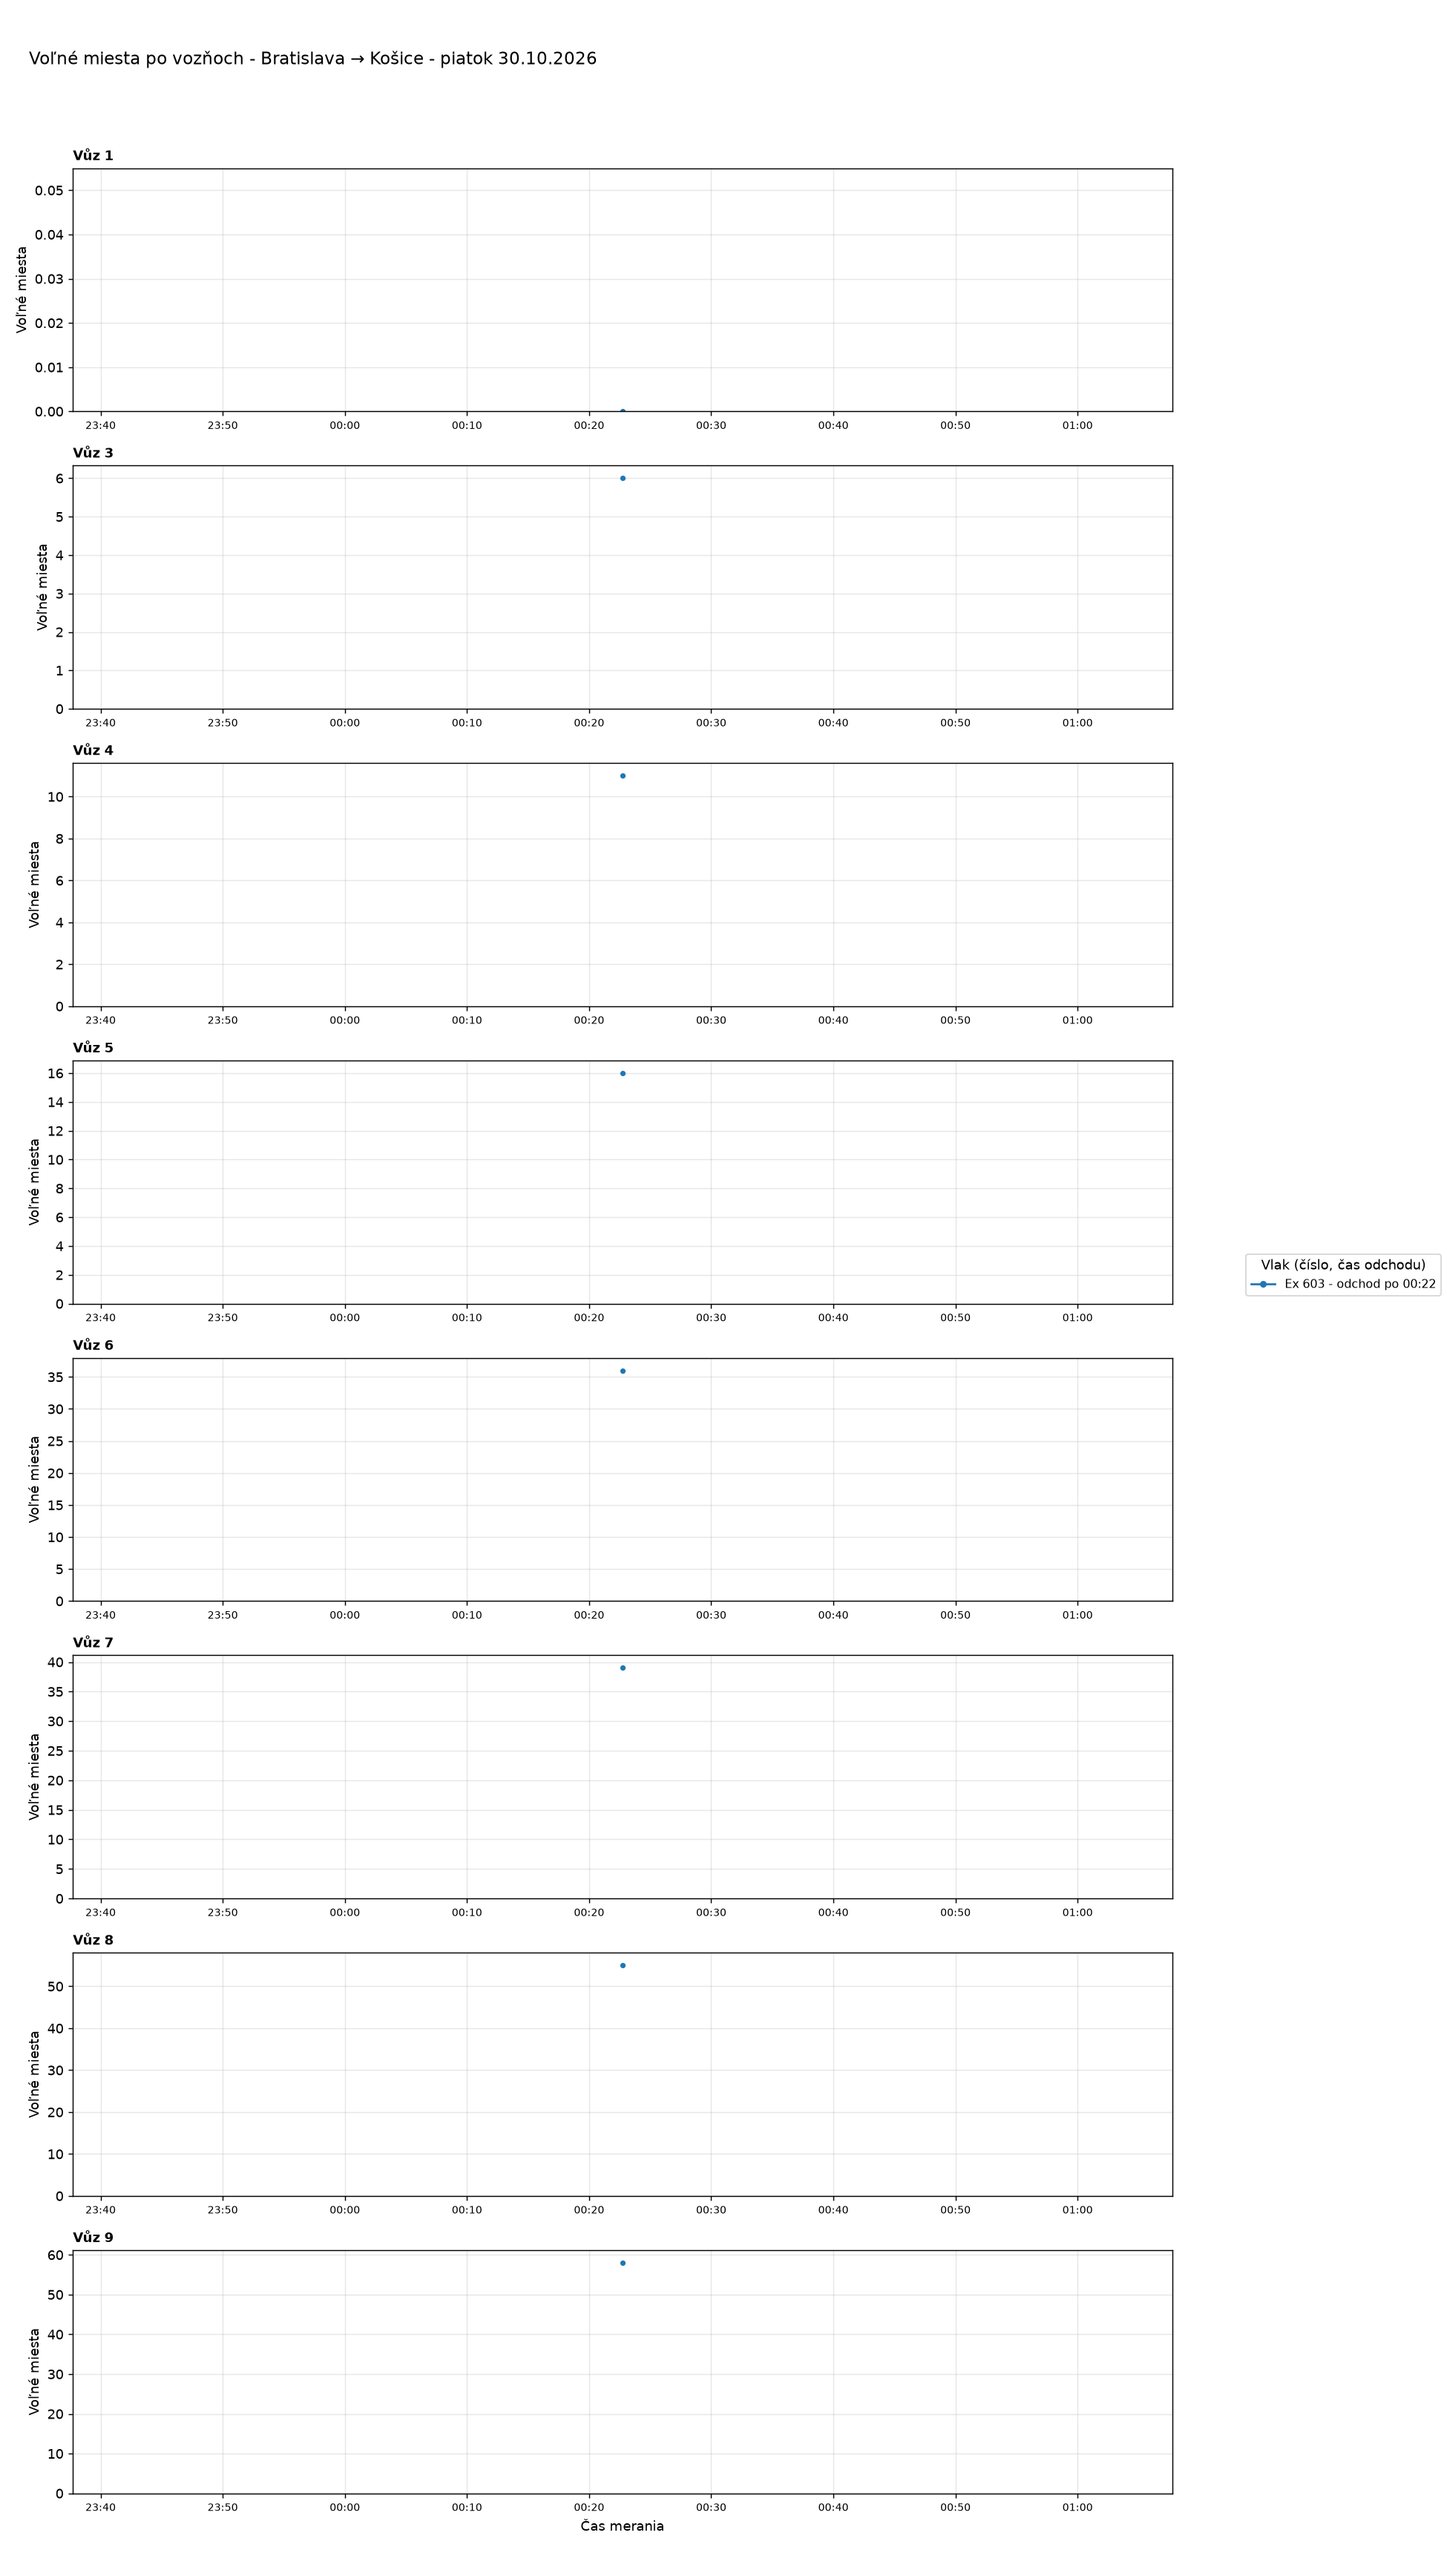
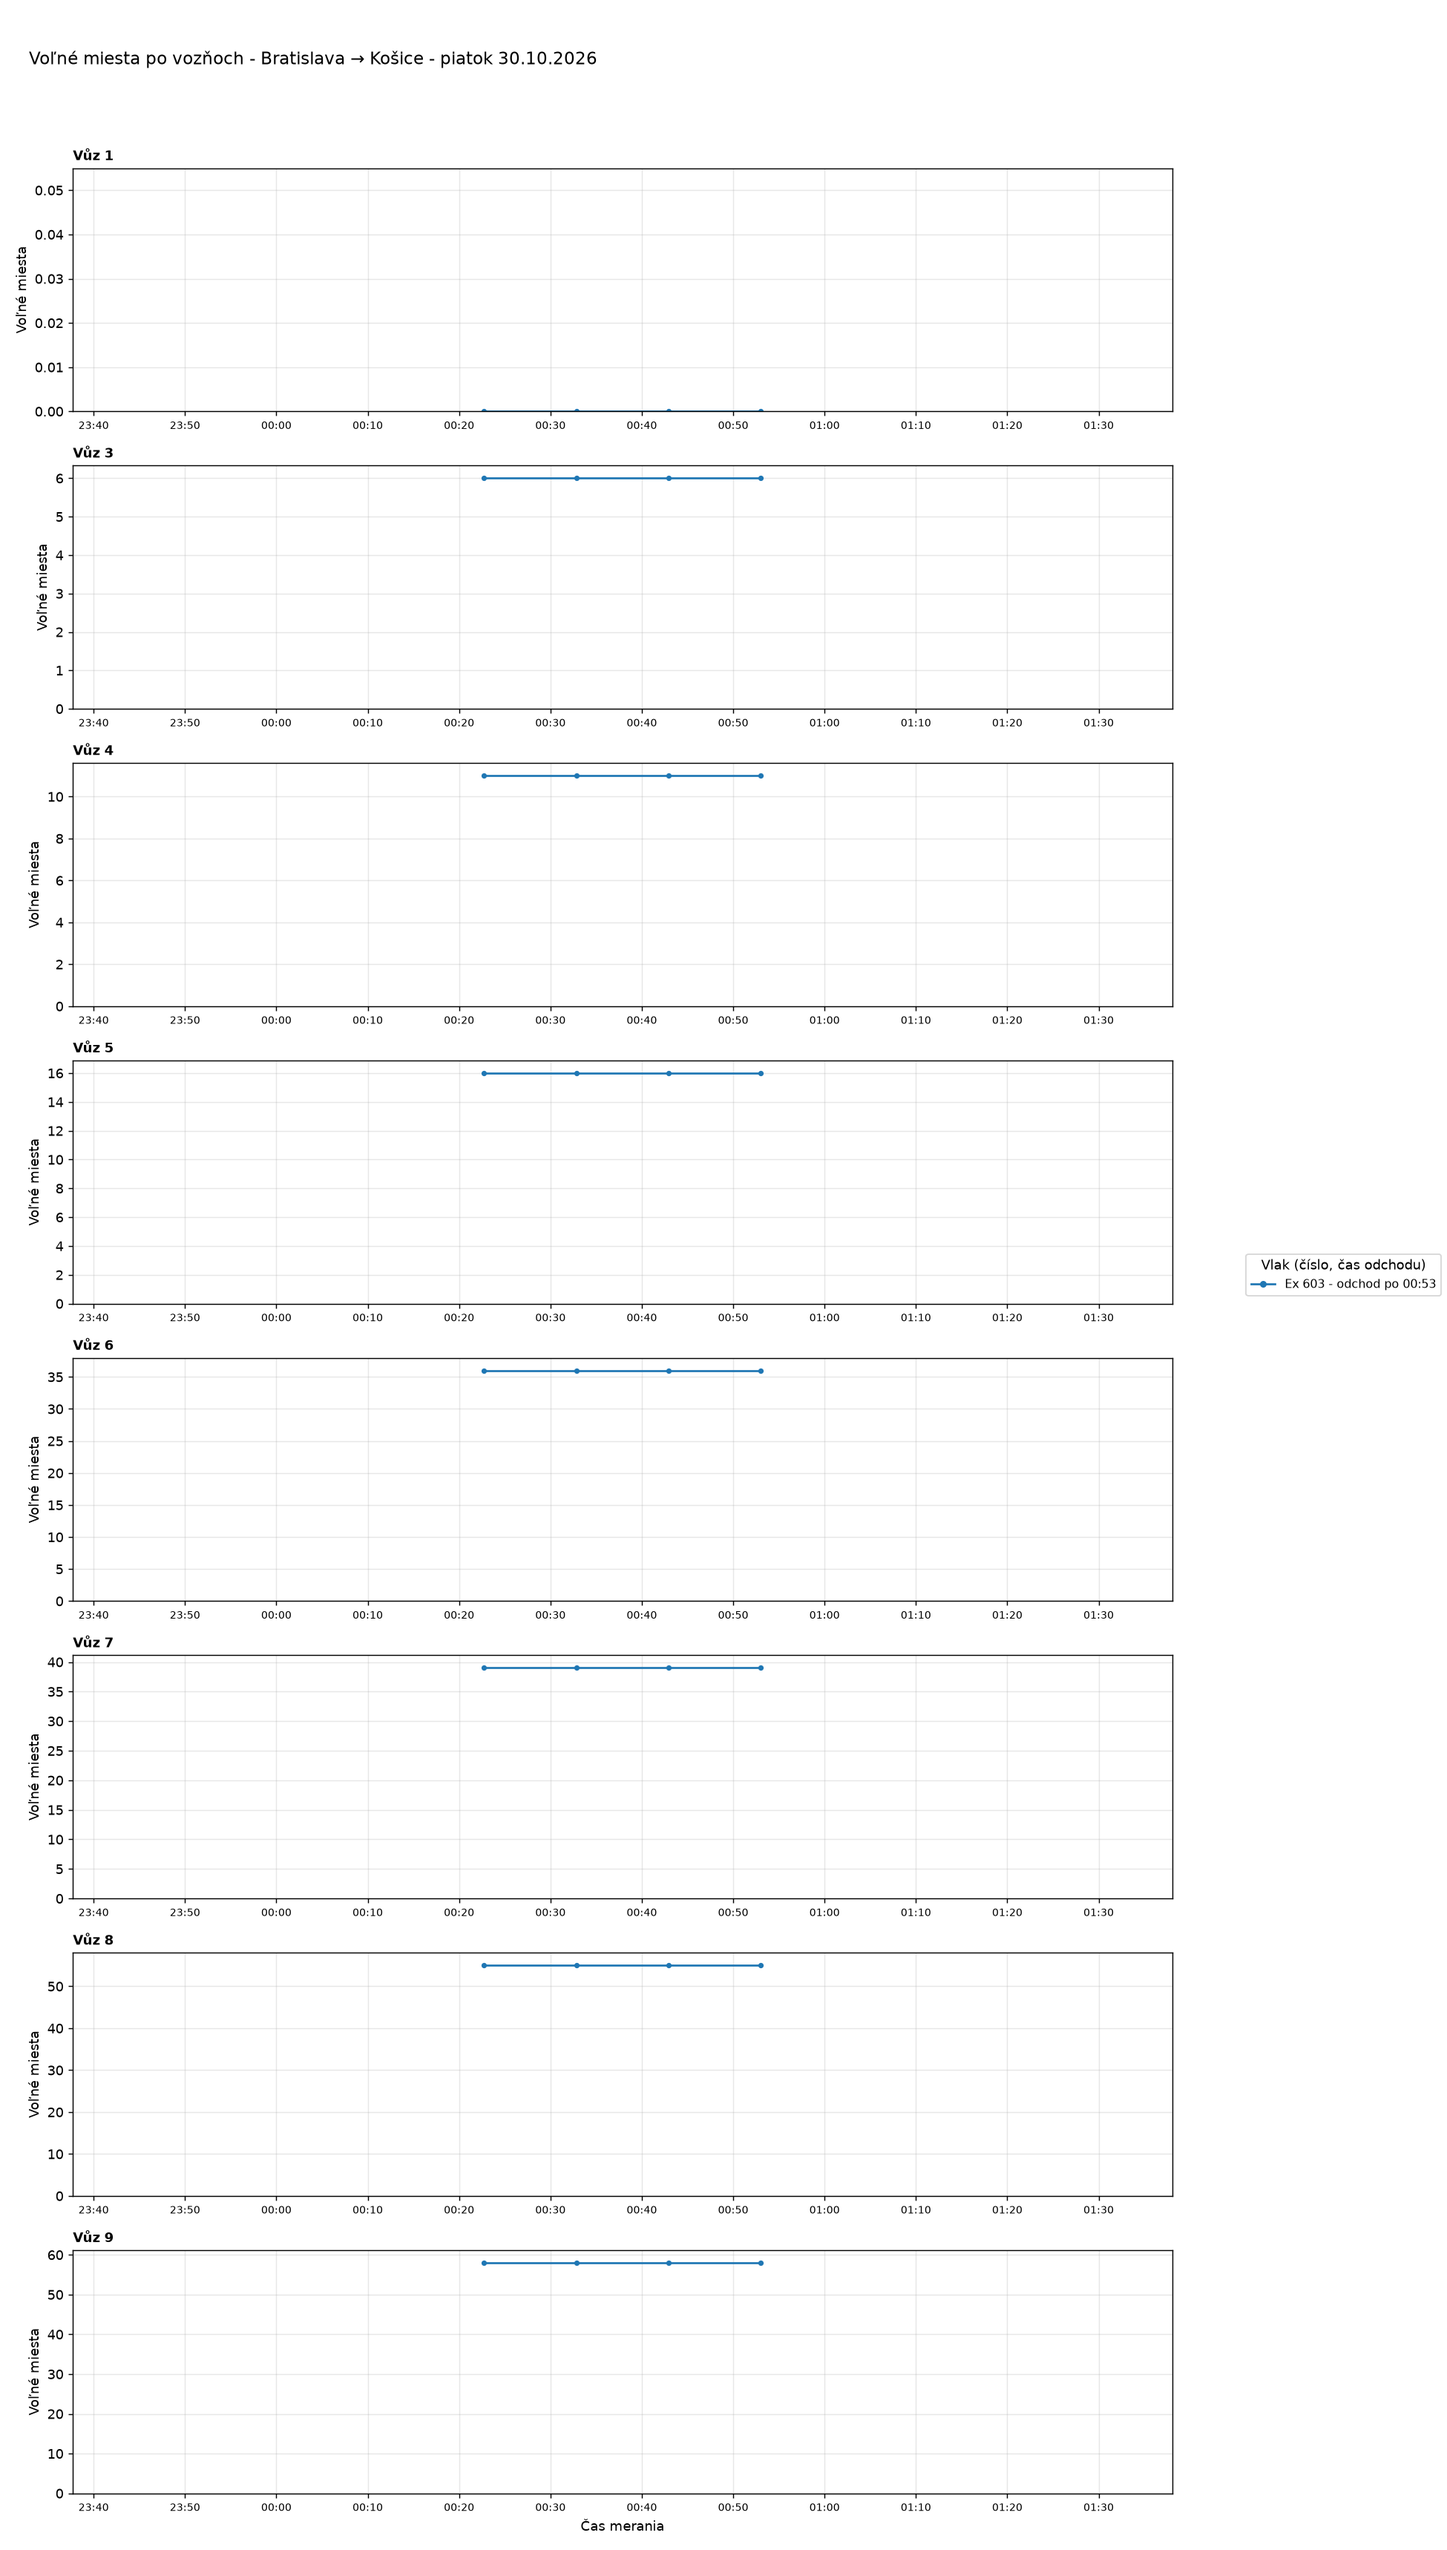
Aktualizácia grafov 2026-10-30 01:04

diff --git a/index.html b/index.html
@@ -37,7 +37,7 @@ details.trasa>summary{cursor:pointer;font-weight:600;font-size:1.1rem;padding:8p
 <body>
 <main>
 <h1>Voľné miesta vo vlakoch</h1>
-<p class="muted">Posledné meranie: 30.10.2026 00:23 ·
+<p class="muted">Posledné meranie: 30.10.2026 00:53 ·
 <a href="data/obsadenost_data.csv">stiahnuť dáta (CSV)</a></p>
 <nav class="nav"><a href="#suhrn">Súhrn</a><a href="#statistiky">Štatistiky</a><a href="#historia">História grafov</a></nav>
 
@@ -46,8 +46,9 @@ details.trasa>summary{cursor:pointer;font-weight:600;font-size:1.1rem;padding:8p
 <div class="tablewrap"><table>
 <thead><tr><th>Deň</th><th>Trasa</th><th>Meraní</th><th>Vlakov</th><th>Čas meraní</th></tr></thead>
 <tbody>
-<tr><td><a href="#dBA-KE-2026-10-30">piatok 30.10.2026</a></td><td>Bratislava → Košice</td><td>1</td><td>1</td><td>00:22-00:22</td></tr>
-<tr><td><a href="#dKE-BA-2026-10-30">piatok 30.10.2026</a></td><td>Košice → Bratislava</td><td>1</td><td>1</td><td>00:23-00:23</td></tr>
+<tr><td><a href="#dBA-VR-2026-10-30">piatok 30.10.2026</a></td><td>Bratislava → Vrútky</td><td>3</td><td>1</td><td>00:31-00:51</td></tr>
+<tr><td><a href="#dBA-KE-2026-10-30">piatok 30.10.2026</a></td><td>Bratislava → Košice</td><td>4</td><td>1</td><td>00:22-00:53</td></tr>
+<tr><td><a href="#dKE-BA-2026-10-30">piatok 30.10.2026</a></td><td>Košice → Bratislava</td><td>4</td><td>1</td><td>00:23-00:53</td></tr>
 <tr><td><a href="#dBA-VR-2026-10-29">štvrtok 29.10.2026</a></td><td>Bratislava → Vrútky</td><td>84</td><td>14</td><td>00:01-23:31</td></tr>
 <tr><td><a href="#dVR-BA-2026-10-29">štvrtok 29.10.2026</a></td><td>Vrútky → Bratislava</td><td>75</td><td>15</td><td>02:42-21:02</td></tr>
 <tr><td><a href="#dBA-KE-2026-10-29">štvrtok 29.10.2026</a></td><td>Bratislava → Košice</td><td>76</td><td>13</td><td>00:03-23:22</td></tr>
@@ -4526,7 +4527,8 @@ details.trasa>summary{cursor:pointer;font-weight:600;font-size:1.1rem;padding:8p
 </table></div></section></details>
 
 <h2 class="oddiel" id="historia">História grafov po dňoch</h2>
-<details class="trasa" open><summary>Bratislava → Vrútky</summary><section class="card" id="dBA-VR-2026-10-29"><h2>štvrtok 29.10.2026</h2><a href="grafy/graf_vozne_BA-VR_2026-10-29.png"><img src="grafy/graf_vozne_BA-VR_2026-10-29.png" loading="lazy" alt="Voľné miesta po vozňoch - Bratislava → Vrútky - štvrtok 29.10.2026"></a><p class="muted"><a href="grafy/graf_vozne_BA-VR_2026-10-29.png">Otvoriť graf vo väčšom rozlíšení</a></p></section>
+<details class="trasa" open><summary>Bratislava → Vrútky</summary><section class="card" id="dBA-VR-2026-10-30"><h2>piatok 30.10.2026</h2><a href="grafy/graf_vozne_BA-VR_2026-10-30.png"><img src="grafy/graf_vozne_BA-VR_2026-10-30.png" loading="lazy" alt="Voľné miesta po vozňoch - Bratislava → Vrútky - piatok 30.10.2026"></a><p class="muted"><a href="grafy/graf_vozne_BA-VR_2026-10-30.png">Otvoriť graf vo väčšom rozlíšení</a></p></section>
+<section class="card" id="dBA-VR-2026-10-29"><h2>štvrtok 29.10.2026</h2><a href="grafy/graf_vozne_BA-VR_2026-10-29.png"><img src="grafy/graf_vozne_BA-VR_2026-10-29.png" loading="lazy" alt="Voľné miesta po vozňoch - Bratislava → Vrútky - štvrtok 29.10.2026"></a><p class="muted"><a href="grafy/graf_vozne_BA-VR_2026-10-29.png">Otvoriť graf vo väčšom rozlíšení</a></p></section>
 <section class="card" id="dBA-VR-2026-10-28"><h2>streda 28.10.2026</h2><a href="grafy/graf_vozne_BA-VR_2026-10-28.png"><img src="grafy/graf_vozne_BA-VR_2026-10-28.png" loading="lazy" alt="Voľné miesta po vozňoch - Bratislava → Vrútky - streda 28.10.2026"></a><p class="muted"><a href="grafy/graf_vozne_BA-VR_2026-10-28.png">Otvoriť graf vo väčšom rozlíšení</a></p></section>
 <section class="card" id="dBA-VR-2026-10-27"><h2>utorok 27.10.2026</h2><a href="grafy/graf_vozne_BA-VR_2026-10-27.png"><img src="grafy/graf_vozne_BA-VR_2026-10-27.png" loading="lazy" alt="Voľné miesta po vozňoch - Bratislava → Vrútky - utorok 27.10.2026"></a><p class="muted"><a href="grafy/graf_vozne_BA-VR_2026-10-27.png">Otvoriť graf vo väčšom rozlíšení</a></p></section>
 <section class="card" id="dBA-VR-2026-10-26"><h2>pondelok 26.10.2026</h2><a href="grafy/graf_vozne_BA-VR_2026-10-26.png"><img src="grafy/graf_vozne_BA-VR_2026-10-26.png" loading="lazy" alt="Voľné miesta po vozňoch - Bratislava → Vrútky - pondelok 26.10.2026"></a><p class="muted"><a href="grafy/graf_vozne_BA-VR_2026-10-26.png">Otvoriť graf vo väčšom rozlíšení</a></p></section>
